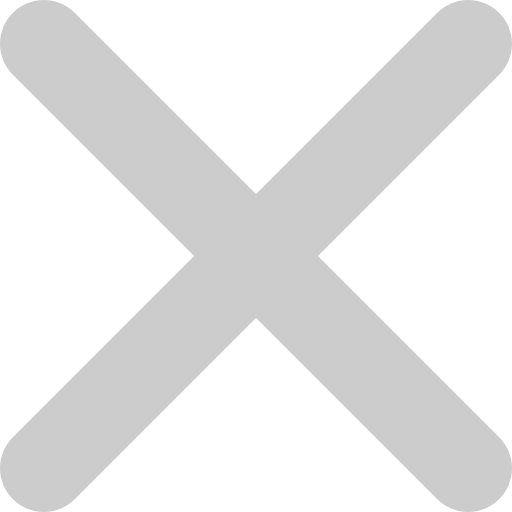
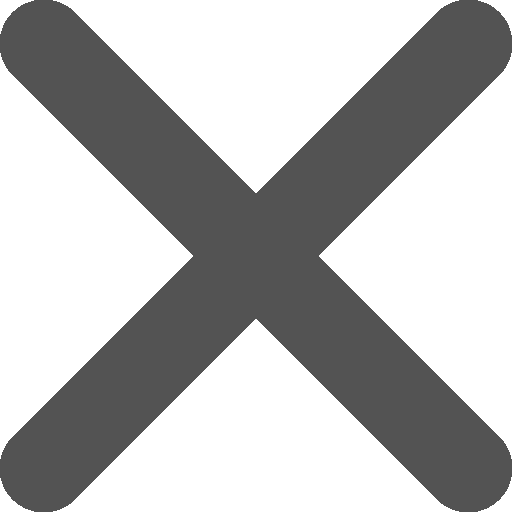
Delete email button

diff --git a/templates/index.html b/templates/index.html
@@ -547,7 +547,7 @@
             newNode.appendChild(newNodeChild);
             newNodeChild = document.createElement('img');
             newNodeChild.className = 'delete_email_icon'
-            newNodeChild.src = '/static/images/X-dark.png';
+            newNodeChild.src = '/static/images/X.png';
             newNode.appendChild(newNodeChild);
             document.getElementById('email_to_list').insertBefore(newNode, document.getElementById('email_to_input_span'));
             document.getElementById('email_to_input').value = '';
@@ -561,7 +561,7 @@
             newNode.appendChild(newNodeChild);
             newNodeChild = document.createElement('img');
             newNodeChild.className = 'delete_email_icon'
-            newNodeChild.src = '/static/images/X-dark.png';
+            newNodeChild.src = '/static/images/X.png';
             newNode.appendChild(newNodeChild);
             document.getElementById('email_to_list').insertBefore(newNode, document.getElementById('email_to_input_span'));
             document.getElementById('email_to_input').value = '';
